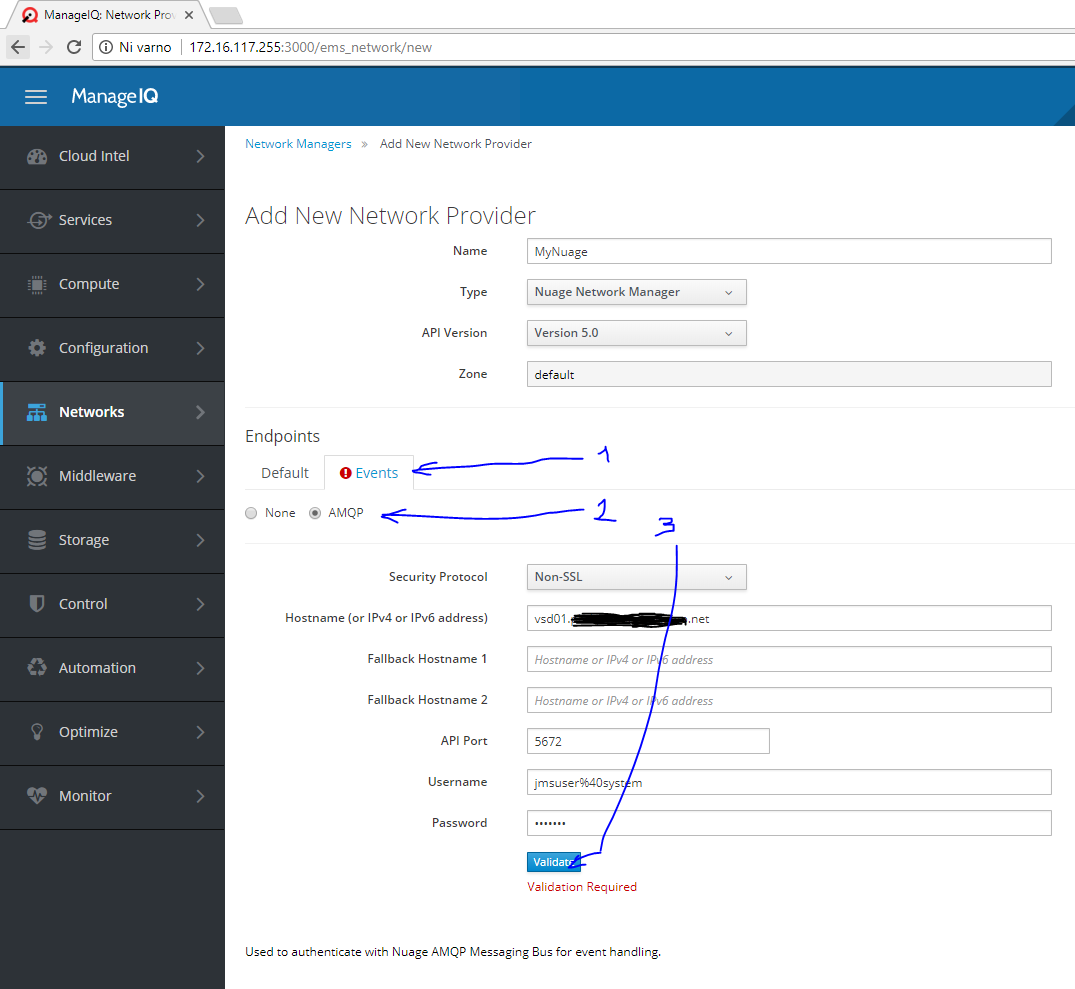
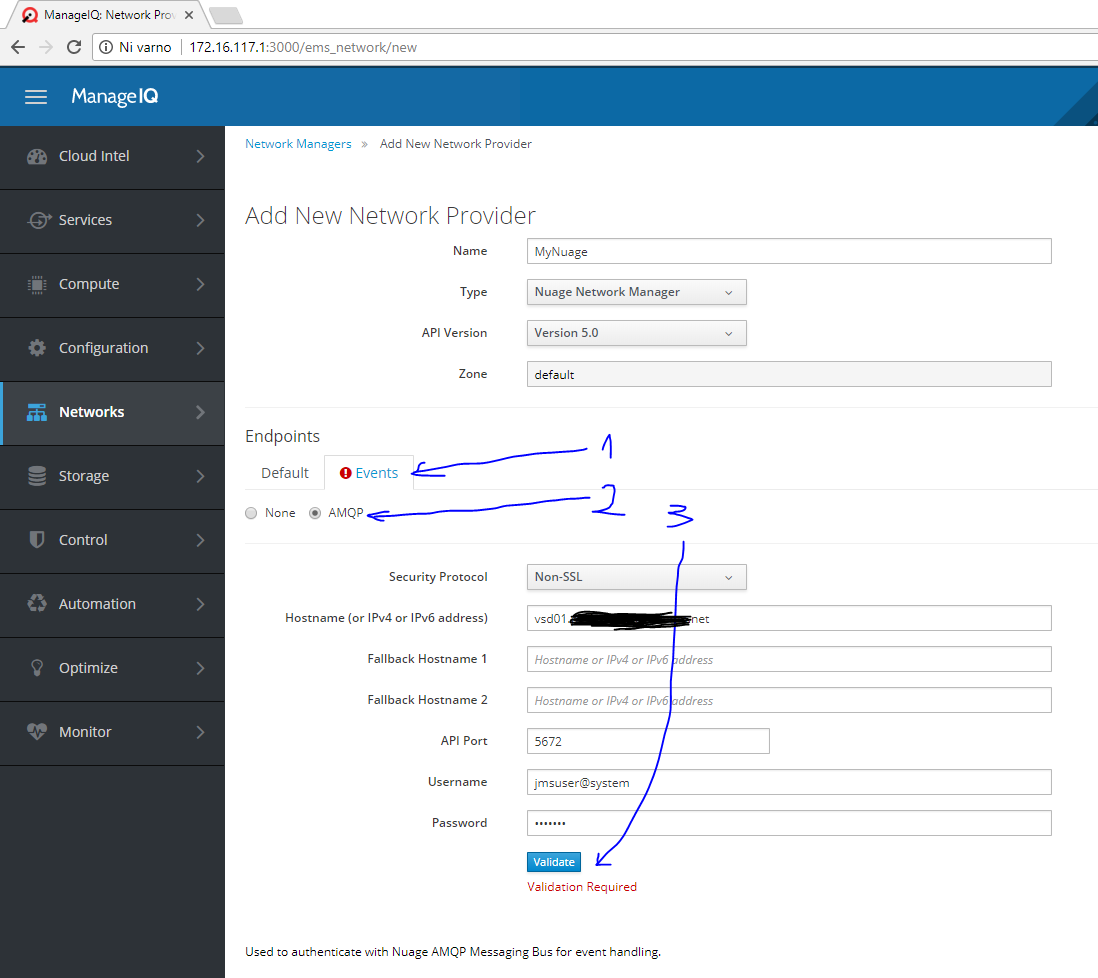
Update guide to use gem version 0.19.0
With this commit we update installation guide so that it now
shows how to install with qpid_proton 0.19.0 instead the old
0.18.1. Since not everything is upstreamed yet, we provide
temporary instructions on how to checkout the relevant branches.

diff --git a/instructions/README.md b/instructions/README.md
@@ -47,7 +47,7 @@ $ rbenv global 2.3.1
 
 # Qpid-proton installation (required by Nuage provider)
 $ sudo apt-get install -y gcc cmake cmake-curses-gui uuid-dev libssl-dev libsasl2-2 libsasl2-dev swig
-$ git clone --branch 0.18.1 https://github.com/apache/qpid-proton.git ~/qpid-proton
+$ git clone --branch 0.19.0 https://github.com/apache/qpid-proton.git ~/qpid-proton
 $ mkdir -p ~/qpid-proton/build && cd ~/qpid-proton/build
 $ cmake .. -DCMAKE_INSTALL_PREFIX=/usr -DBUILD_BINDINGS=
 $ make all
@@ -68,8 +68,18 @@ Having the required system libraries installed, we then need to pull the MIQ sou
 
 ```bash
 $ git clone https://github.com/ManageIQ/manageiq.git ~/manageiq
+$ #----------------------------- only needed temporarily until 0.19.0 support is upstreamed
 $ cd ~/manageiq
-$ BUNDLE_WITH=qpid_proton bin/setup # Qpid-proton is needed for Nuage provider's eventing
+$ git remote add patch https://github.com/miha-plesko/manageiq.git
+$ git fetch patch
+$ git checkout patch/upgrade-to-qpid-0.19.0
+$ mkdir plugins && cd plugins
+$ git clone --branch upgrade-to-qpid-0.19.0 https://github.com/miha-plesko/manageiq-providers-nuage.git
+$ echo "override_gem 'manageiq-providers-nuage', :path => File.expand_path('~/manageiq/plugins/manageiq-providers-nuage')" > ../bundler.d/local_plugins.rb
+$ #----------------------------- ENDOF only needed temporarily
+$ cd ~/manageiq
+$ export BUNDLE_WITH=qpid_proton
+$ bin/setup # Qpid-proton is needed for Nuage provider's eventing
 ```
 
 Viola! The MIQ is installed with all providers included (Nuage provider is enabled by default).
@@ -110,7 +120,7 @@ you were wondering). Provide AMQP credentials in the form and click "Validate". 
 ![Configuration -> Add a New Network Provider](./amqp-endpoint.PNG)
 
 That's it, confirm by pressing "Add" button in the bottom-right and Nuage provider will be added.
-When added, the inventory will get collected immediately.
+When added, the inventory will get collected automatically.
 
 ## Add Nuage Provider via Rails Console
 It is also possible to register your Nuage provider from terminal i.e. without using the browser. Open a terminal
@@ -132,7 +142,7 @@ irb(main)> ems = ManageIQ::Providers::Nuage::NetworkManager.create(
   :zone_id => MiqServer.my_server.zone.id
 )
 irb(main)> ems.authentications << AuthUseridPassword.create(:authtype => 'default', :userid => 'myuser', :password => 'mypass')
-irb(main)> ems.authentications << AuthUseridPassword.create(:authtype => 'amqp', :userid => 'jmsuser%40system', :password => 'mypass')
+irb(main)> ems.authentications << AuthUseridPassword.create(:authtype => 'amqp', :userid => 'jmsuser@system', :password => 'mypass')
 irb(main)> ems.endpoints       << Endpoint          .create(:role => 'amqp', :hostname => 'vsd01.XYZ.net', :port => '5672')
 irb(main)> ems.authentication_check
 irb(main)> ems.save
